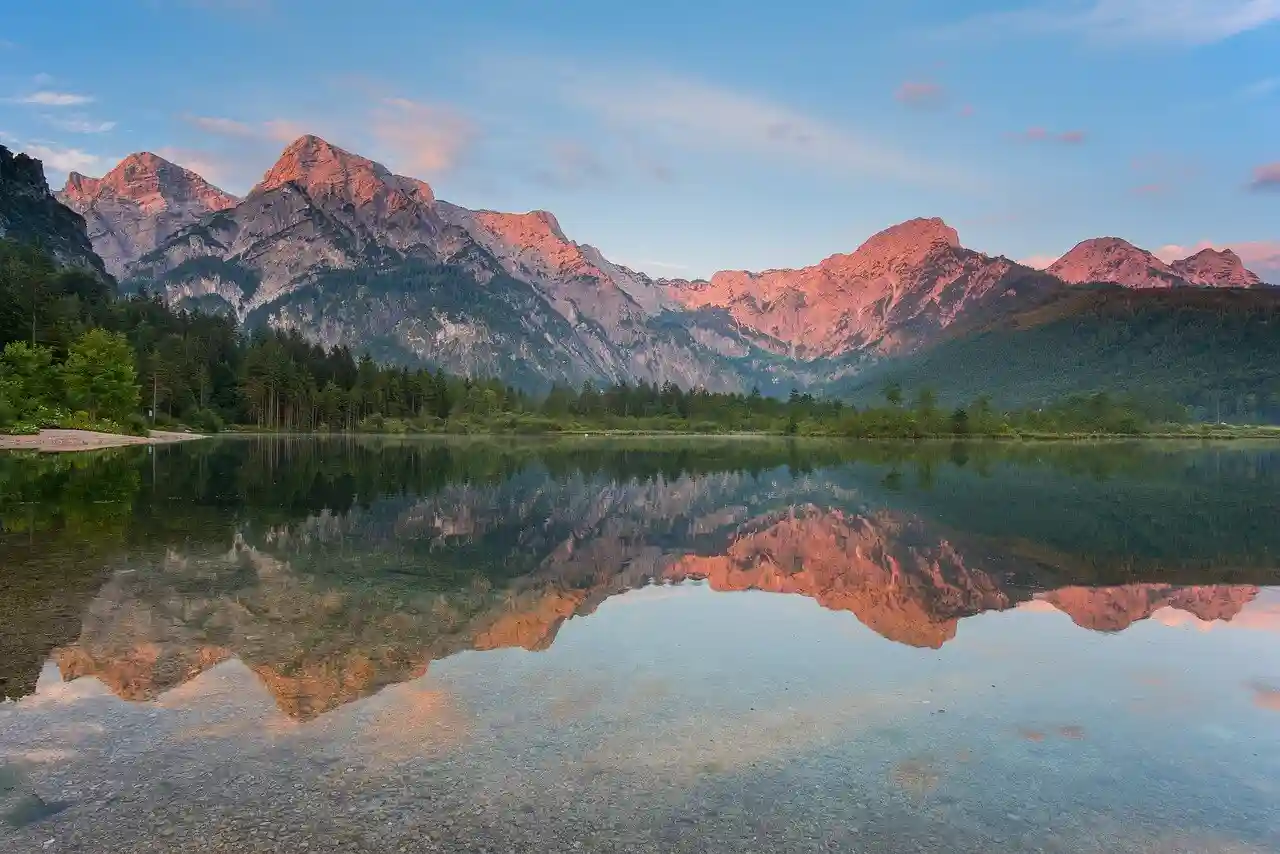
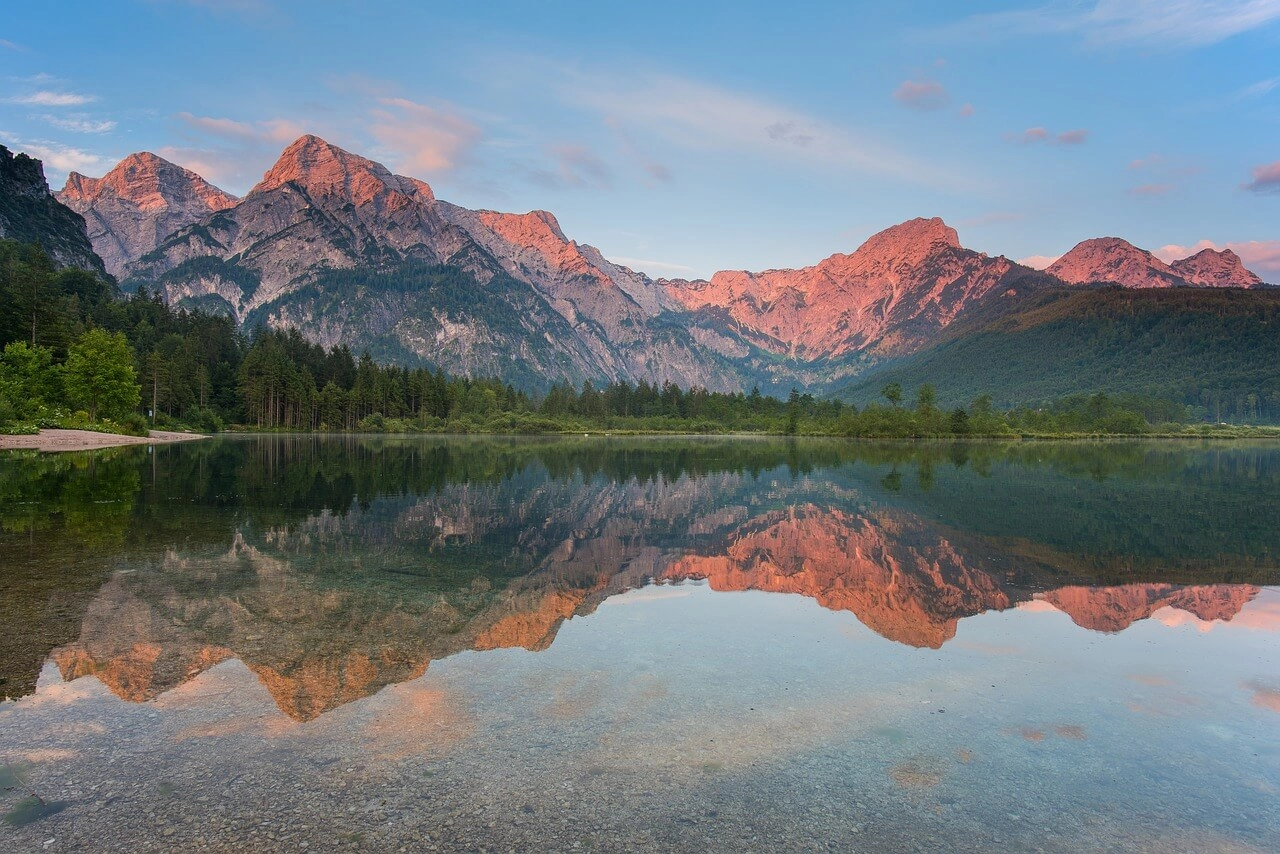
changed picture size4

diff --git a/projects/rinnerhuette/wanderungen.js b/projects/rinnerhuette/wanderungen.js
@@ -11,7 +11,7 @@ document.addEventListener('DOMContentLoaded', function() {
             höhenmeter: "120 hm",
             gehzeit: "30 Minuten",
             schwierigkeit: "leicht",
-            bild: "see.jpg",
+            bild: "see.webp",
             beschreibung: "Wunderschöner Bergsee",
             gpxFile: "Wildensee.gpx"
         },
@@ -22,7 +22,7 @@ document.addEventListener('DOMContentLoaded', function() {
             höhenmeter: "570 hm",
             gehzeit: "3 Stunden",
             schwierigkeit: "mittel",
-            bild: "rinner.jpg",
+            bild: "rinner.webp",
             beschreibung: "Ein wunderschöner Gipfel auf 2021m Höhe",
             gpxFile: "Rinnerkogel.gpx"
         },
@@ -33,7 +33,7 @@ document.addEventListener('DOMContentLoaded', function() {
             höhenmeter: "940 hm",
             gehzeit: "1 Stunde",
             schwierigkeit: "schwer",
-            bild: "weiß.jpg",
+            bild: "weiß.webp",
             beschreibung: "Kein markierter Weg, nur ein Jägersteig, aber man wird durch eine unfassbare Aussicht über das Tote Gebirge belohnt",
             gpxFile: "weißhorn.gpx"
         },
@@ -44,7 +44,7 @@ document.addEventListener('DOMContentLoaded', function() {
             höhenmeter: "300 hm",
             gehzeit: "1,5 Stunden",
             schwierigkeit: "leicht",
-            bild: "appelhaus.jpg",
+            bild: "appelhaus.webp",
             beschreibung: "Gut markierter Wanderweg durch das wunderschöne Tote Gebirge. Die Hütte bietet eine beeindruckende Aussicht und eine gemütliche Einkehrmöglichkeit.",
             gpxFile: "Albert-Appel-Haus.gpx"
         },
@@ -55,7 +55,7 @@ document.addEventListener('DOMContentLoaded', function() {
             höhenmeter: "940 hm",
             gehzeit: "3,5 Stunden",
             schwierigkeit: "mittel",
-            bild: "hochkogelhaus.jpg",
+            bild: "hochkogelhaus.webp",
             beschreibung: "Eine lange, aber lohnende Wanderung durch das Tote Gebirge.",
             gpxFile: "Hochkogelhaus.gpx"
         }
